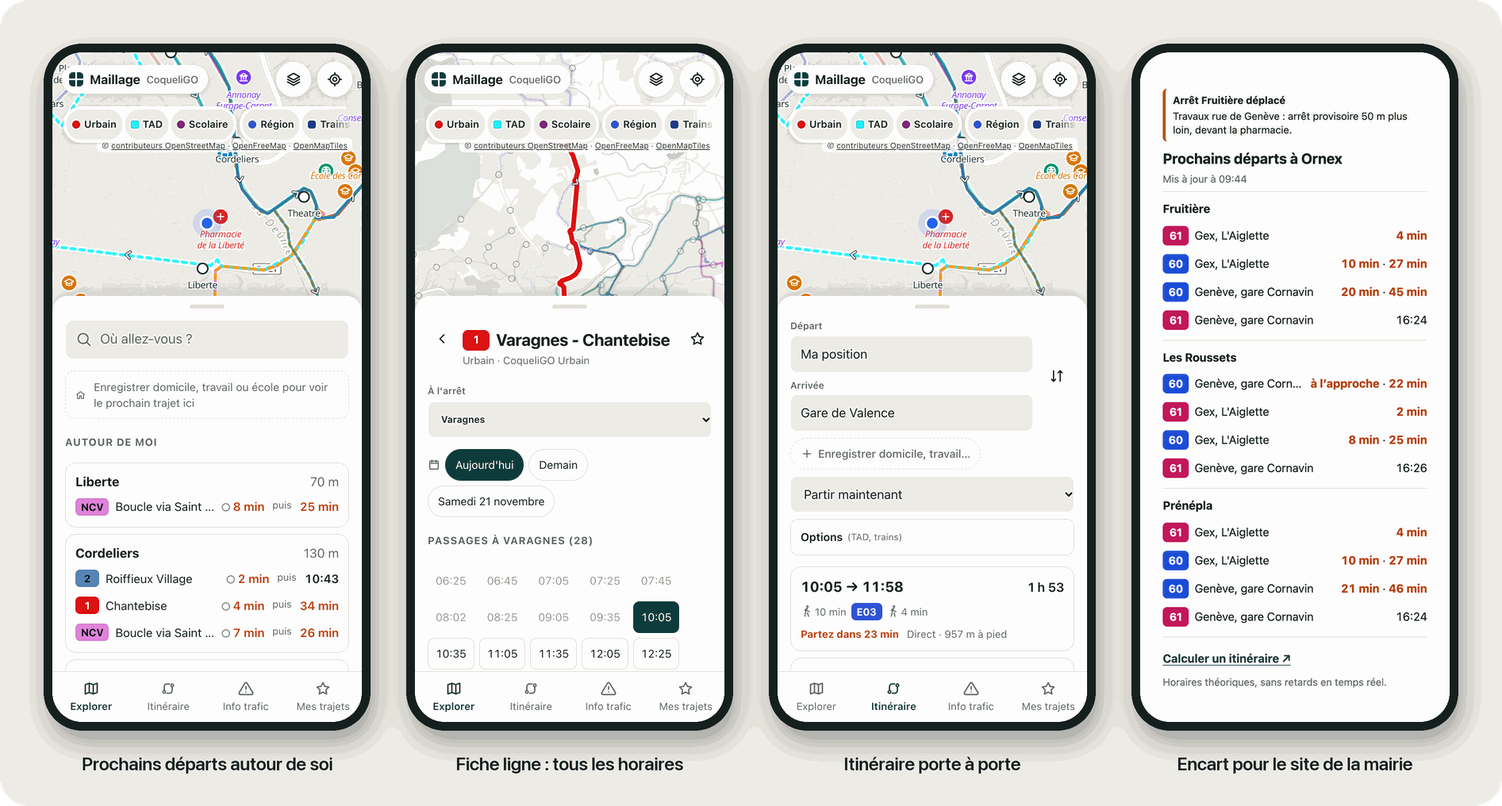
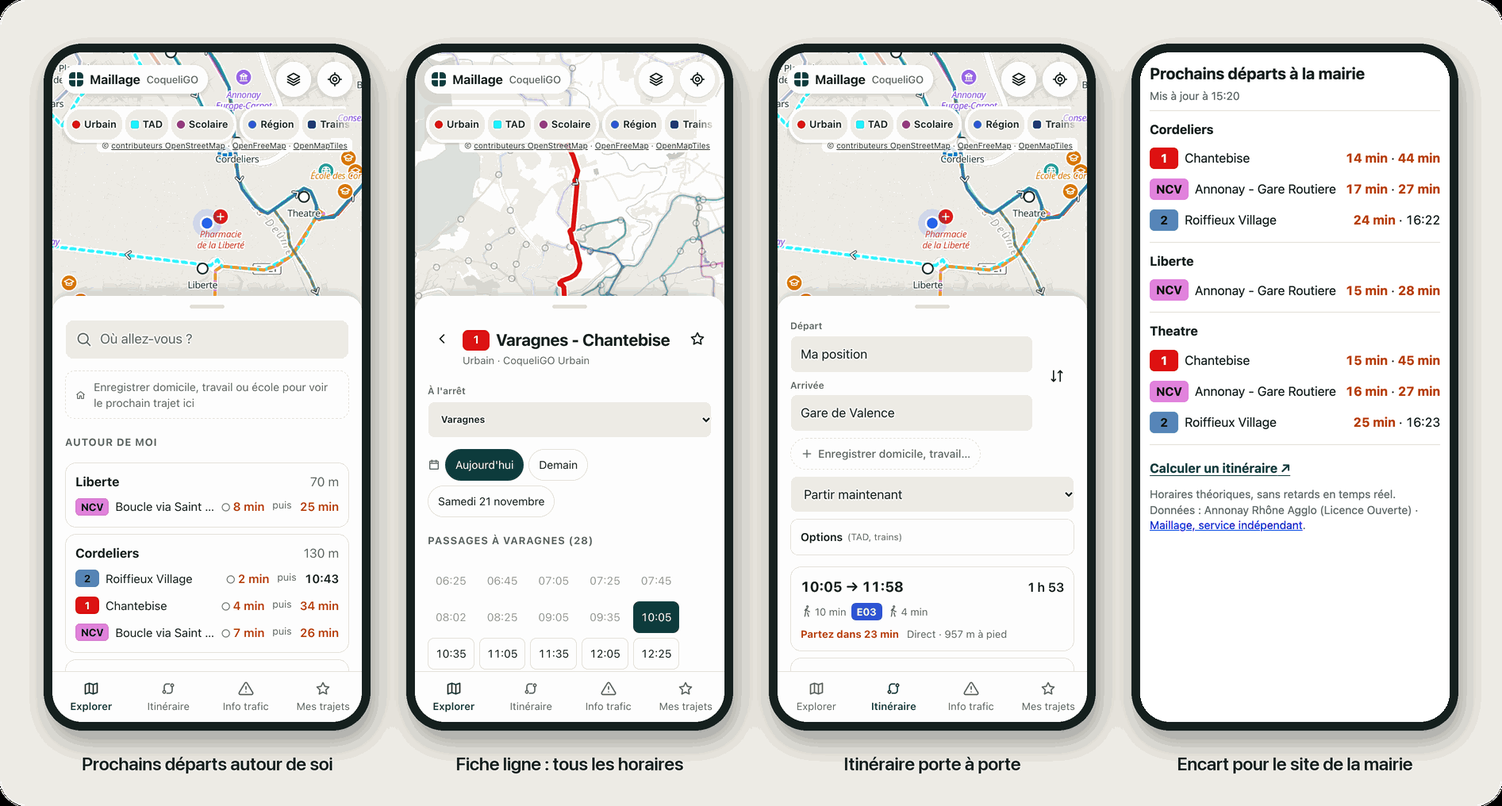
Dépôt public neutre : plus de commune citée dans les textes et la capture
- README, EXPLOITATION, deploy/README : territoires génériques, modèle d'encart encart-exemple.html
- capture du README : encart « Prochains départs à la mairie » à la place d'Ornex
- encart-ornex.html et trajets-ornex.ts passent dans la partie privée (docs/, outils/)
- crédit de l'encart tiré du territoire (affichait Pays de Gex Agglo partout)

diff --git a/src/widget.ts b/src/widget.ts
@@ -3,7 +3,7 @@ import { BRAND } from './brand'
 // Page autonome et légère : ni carte ni calcul d'itinéraire, seulement les passages aux arrêts
 // de la commune (data/<territoire>/widget-<commune>.json, produit par pipeline/build_widget.py).
 //
-// Paramètres d'adresse : ?reseau=paysdegex&commune=ornex
+// Paramètres d'adresse : ?reseau=<territoire>&commune=<commune>
 //   &format=complet (défaut) | compact (bandeau d'accueil) | venir (« Comment venir » à un lieu, avec &lieu=<nom>)
 //   &couleur=<hexadécimal sans #> (couleur de la commune) · &id=<identifiant de l'iframe> (plusieurs encarts par page)
 //   &lien=<adresse https du calculateur>
@@ -12,7 +12,7 @@ import './widget.css'
 interface WRoute { short: string; long: string; color: string; text: string; kind: string }
 interface WStop { name: string; lat: number; lon: number; deps: [number, number, number, string][] }
 interface WData {
-  name: string; generated_at: string; window_start: string; window_days: number; valid_until?: string | null; operator_url?: string | null
+  name: string; generated_at: string; window_start: string; window_days: number; valid_until?: string | null; operator_url?: string | null; territory?: string | null
   routes: WRoute[]; services: string[]; stops: WStop[]
   /** lieux de la commune (OpenStreetMap) : [nom, catégorie, type, lat, lon] */
   lieux?: [string, string, string, number, number][]
@@ -102,7 +102,9 @@ function rowsHtml(data: WData, groups: ReturnType<typeof groupsOf>, max = 99) {
       </li>`).join('')
 }
 
-const credit = `<p class="w-muted w-credit">Horaires théoriques, sans retards en temps réel. Données : Pays de Gex Agglo (Licence Ouverte) · <a href="./a-propos.html" target="_blank" rel="noopener">${BRAND.name}, service indépendant</a>.</p>`
+// source des horaires : la collectivité du territoire (encarts construits avant son ajout : mention générique)
+const source = (data: WData) => (data.territory ? `${esc(data.territory)} (Licence Ouverte)` : 'données ouvertes (Licence Ouverte)')
+const credit = (data: WData) => `<p class="w-muted w-credit">Horaires théoriques, sans retards en temps réel. Données : ${source(data)} · <a href="./a-propos.html" target="_blank" rel="noopener">${BRAND.name}, service indépendant</a>.</p>`
 const linkHtml = (href: string, label: string, cls = 'w-link') =>
   `<a class="${cls}" href="${esc(href)}" target="_blank" rel="noopener">${label}<span class="sr"> (nouvel onglet)</span> ↗</a>`
 
@@ -145,7 +147,7 @@ function renderVenir(data: WData, now: { date: string; sec: number }) {
     ${blocks}
     <footer class="w-foot">
       ${linkHtml(vers, 'Itinéraire jusqu’ici', 'w-btn')}
-      ${credit}
+      ${credit(data)}
     </footer>`
 }
 
@@ -196,7 +198,7 @@ function render(data: WData) {
     ${stops}
     <footer class="w-foot">
       <a class="w-link" href="${esc(lien)}" target="_blank" rel="noopener">Calculer un itinéraire<span class="sr"> (nouvel onglet)</span> ↗</a>
-      <p class="w-muted">Horaires théoriques, sans retards en temps réel. Données : Pays de Gex Agglo (Licence Ouverte) · <a href="./a-propos.html" target="_blank" rel="noopener">${BRAND.name}, service indépendant</a>.</p>
+      <p class="w-muted">Horaires théoriques, sans retards en temps réel. Données : ${source(data)} · <a href="./a-propos.html" target="_blank" rel="noopener">${BRAND.name}, service indépendant</a>.</p>
     </footer>`
   root.removeAttribute('aria-busy')
 }

diff --git a/deploy/encart-exemple.html b/deploy/encart-exemple.html
@@ -1,0 +1,43 @@
+<!-- Encarts Maillage pour le site d'une commune : à coller dans un bloc « HTML personnalisé » (WordPress ou autre).
+     Remplacer TERRITOIRE (identifiant du territoire, fichier pipeline/tenants/<territoire>.json), COMMUNE
+     (identifiant de la commune dans pipeline/encarts.json), NOM (nom affiché) et LIEU (format venir).
+     Trois formats, à placer chacun sur la page qui convient ; chaque iframe s'ajuste toute seule à son contenu.
+     Le script en bas de ce fichier est à coller UNE fois par page (il sert à tous les encarts de la page).
+     Paramètres : format (complet | compact | venir), lieu (format venir), couleur (hexadécimal sans #),
+     id (identifiant unique de l'encart sur la page, repris dans data-maillage).
+     L'espace mairie (onglet Encart) génère ce code déjà rempli. -->
+
+<!-- 1. Encart complet : page « Transports publics » -->
+<iframe
+  src="https://maillage.tuatam.fr/widget.html?reseau=TERRITOIRE&amp;commune=COMMUNE&amp;id=COMMUNE"
+  title="Prochains départs des bus aux arrêts de NOM"
+  loading="lazy"
+  style="width:100%;max-width:720px;height:560px;border:1px solid #e2ded6;display:block"
+  data-maillage="COMMUNE"></iframe>
+
+<!-- 2. Bandeau compact : page d'accueil ou colonne latérale -->
+<iframe
+  src="https://maillage.tuatam.fr/widget.html?reseau=TERRITOIRE&amp;commune=COMMUNE&amp;format=compact&amp;id=COMMUNE-compact"
+  title="Prochains bus à NOM"
+  loading="lazy"
+  style="width:100%;max-width:720px;height:150px;border:1px solid #e2ded6;display:block"
+  data-maillage="COMMUNE-compact"></iframe>
+
+<!-- 3. « Comment venir » : page d'un équipement (ici la mairie). LIEU = nom du lieu tel qu'il apparaît
+     dans les données OpenStreetMap de la commune (liste « lieux » de data/<territoire>/widget-<commune>.json),
+     encodé pour une adresse (espace = %20) ; une partie du nom suffit. -->
+<iframe
+  src="https://maillage.tuatam.fr/widget.html?reseau=TERRITOIRE&amp;commune=COMMUNE&amp;format=venir&amp;lieu=LIEU&amp;id=COMMUNE-mairie"
+  title="Venir en bus à la mairie de NOM"
+  loading="lazy"
+  style="width:100%;max-width:520px;height:420px;border:1px solid #e2ded6;display:block"
+  data-maillage="COMMUNE-mairie"></iframe>
+
+<!-- Script commun (une fois par page) : ajuste la hauteur de chaque encart à son contenu. -->
+<script>
+  window.addEventListener('message', function (e) {
+    if (e.origin !== 'https://maillage.tuatam.fr' || !e.data || e.data.type !== 'maillage-widget-height') return;
+    var f = document.querySelector('iframe[data-maillage="' + String(e.data.commune).replace(/[^a-z0-9-]/gi, '') + '"]');
+    if (f && e.data.height > 40 && e.data.height < 3000) f.style.height = e.data.height + 'px';
+  });
+</script>

diff --git a/demo-encarts.html b/demo-encarts.html
@@ -38,20 +38,20 @@
     <button role="tab" aria-selected="false" data-page="mairie">La mairie · « Comment venir »</button>
   </nav>
   <main>
-    <p class="note">Démonstration : les horaires sont réels (données ouvertes du Pays de Gex), le décor de la page est fictif.
+    <p class="note">Démonstration : les horaires sont réels (données ouvertes d'un territoire de démonstration), le décor de la page est fictif.
       Chaque encart s'ajuste tout seul à la hauteur de son contenu et se colle dans un bloc « HTML personnalisé ».</p>
 
     <section data-page="accueil">
       <div class="cols">
         <div>
-          <h1>Bienvenue à Ornex</h1>
+          <h1>Bienvenue sur le site de la commune</h1>
           <div class="placeholder" aria-hidden="true"></div>
           <p>Actualités, agenda, démarches… Le bandeau des prochains bus est vu par tous les visiteurs de l'accueil.</p>
           <div class="placeholder" aria-hidden="true"></div>
         </div>
         <aside>
           <p class="label">Colonne latérale</p>
-          <iframe data-maillage="demo-compact" title="Prochains bus à Ornex" style="height:170px"
+          <iframe data-maillage="demo-compact" title="Prochains bus de la commune" style="height:170px"
             data-src="./widget.html?reseau=paysdegex&commune=ornex&format=compact&id=demo-compact"></iframe>
         </aside>
       </div>
@@ -59,8 +59,8 @@
 
     <section data-page="transports" hidden>
       <h1>Transports publics</h1>
-      <p>Lignes 60 et 61 (TPG, pour Pays de Gex Agglo). Prochains départs en direct aux trois arrêts de la commune :</p>
-      <iframe data-maillage="demo-complet" title="Prochains départs des bus aux arrêts d'Ornex" style="height:560px;max-width:720px"
+      <p>Prochains départs en direct aux arrêts de la commune :</p>
+      <iframe data-maillage="demo-complet" title="Prochains départs des bus aux arrêts de la commune" style="height:560px;max-width:720px"
         data-src="./widget.html?reseau=paysdegex&commune=ornex&id=demo-complet"></iframe>
     </section>
 
@@ -79,7 +79,7 @@
         </div>
         <aside>
           <p class="label">Comment venir</p>
-          <iframe data-maillage="demo-venir" title="Venir en bus à la mairie d'Ornex" style="height:420px"
+          <iframe data-maillage="demo-venir" title="Venir en bus à la mairie" style="height:420px"
             data-src="./widget.html?reseau=paysdegex&commune=ornex&format=venir&lieu=Mairie%20d'Ornex&id=demo-venir"></iframe>
         </aside>
       </div>

diff --git a/src/views/trip.tsx b/src/views/trip.tsx
@@ -126,7 +126,7 @@ export function PlaceInput({ net, label, value, placeholder, onPick, near, autoF
   )
 }
 
-/** « Mairie d'Ornex » reste tel quel ; « École des Bois » devient « École des Bois, Ornex ». */
+/** « Mairie de Bourg » reste tel quel ; « École des Tilleuls » devient « École des Tilleuls, Bourg ». */
 const poiLabel = (s: Suggestion) => {
   const commune = s.detail.split(' · ').pop() ?? ''
   return commune && !s.label.toLowerCase().includes(commune.toLowerCase()) ? `${s.label}, ${commune}` : s.label

diff --git a/pipeline/build_widget.py b/pipeline/build_widget.py
@@ -7,8 +7,8 @@ Le fichier produit (quelques dizaines de Ko au lieu de ~1 Mo) suffit à afficher
 de tous les jours de la fenêtre du réseau (60 jours) : chaque passage renvoie à un calendrier.
 
 Usage :
-    python3 -I pipeline/build_widget.py public/data/paysdegex --slug ornex --name Ornex \
-        --places "Ornex, Fruitière" "Ornex, Les Roussets" "Ornex, Prénépla"
+    python3 -I pipeline/build_widget.py public/data/<territoire> --slug <commune> --name "<Nom>" \
+        --places "<pôle d'arrêt 1>" "<pôle d'arrêt 2>"
 """
 import argparse, json, os, sys
 
@@ -65,6 +65,7 @@ def main():
         "generated_at": net["generated_at"],
         "tenant": net["tenant"]["tenant"],
         "name": args.name,
+        "territory": net["tenant"].get("territory"),
         "window_start": net["window_start"],
         "window_days": net["window_days"],
         # fin de validité des flux utilisés par l'encart : au-delà, l'encart annonce une mise à jour

diff --git a/pipeline/build_pois.py b/pipeline/build_pois.py
@@ -227,8 +227,8 @@ def main():
             extra["a"] = tags["wheelchair"]
         out.append([name, cat, label, commune, round(la, 6), round(lo, 6), extra])
 
-    # commune : limites administratives OSM (l'arrêt le plus proche porte parfois le nom d'un hameau :
-    # Maconnex pour Ornex) ; à défaut, nom de l'arrêt le plus proche
+    # commune : limites administratives OSM (l'arrêt le plus proche porte parfois le nom d'un hameau
+    # plutôt que celui de la commune) ; à défaut, nom de l'arrêt le plus proche
     try:
         communes = osm_communes([(p[4], p[5]) for p in out], bbox, args.cache, tenant)
         for p, c in zip(out, communes):

diff --git a/README.md b/README.md
@@ -15,7 +15,7 @@
 
 [Fonctions](#fonctions) · [Démarrer](#démarrer) · [Comment ça marche](#comment-ça-marche) · [Contribuer](#contribuer) · [Licence](#licence)
 
-<img src=".github/images/apercu.png" alt="Quatre écrans de Maillage sur téléphone : prochains départs autour de soi sur la carte d'Annonay, fiche de la ligne 1 avec ses horaires, recherche d'itinéraire vers la gare de Valence, encart des prochains départs pour le site de la mairie d'Ornex" width="100%">
+<img src=".github/images/apercu.png" alt="Quatre écrans de Maillage sur téléphone : prochains départs autour de soi sur la carte, fiche d'une ligne avec ses horaires, recherche d'itinéraire porte à porte, encart des prochains départs pour le site d'une mairie" width="100%">
 
 </div>
 
@@ -32,8 +32,7 @@ enchaînent bus, cars et trains, formats ouverts et standards (GTFS, GTFS-RT, et
 un nouveau service sans développement.
 
 Il s'adresse :
-- **aux communes en bordure d'un grand réseau**, comme le Pays de Gex autour de Genève, les communes hors du réseau TCL
-  autour de Lyon ou la grande couronne parisienne ;
+- **aux communes en bordure d'un grand réseau**, par exemple autour de Genève, de Lyon ou de Paris ;
 - **aux petits réseaux** qui n'ont pas encore d'application complète, dont les voyageurs n'ont souvent que des fiches PDF.
 
 - 📱 **Rien à installer** : une page web pensée pour le téléphone, sans compte, sans cookie, sans traceur.
@@ -42,11 +41,12 @@ Il s'adresse :
 - 🏛 **Au service des communes** : un encart à coller sur le site de la mairie et un espace pour publier des messages.
 - 🔓 **Ouvert** : code libre, données ouvertes, standards (GTFS, OpenStreetMap).
 
-**Territoires actuels** : CoqueliGO (Annonay, Ardèche) et Pays de Gex (Ornex, Ain).
+Le dépôt contient les données de deux territoires de démonstration, construites à partir de leurs données ouvertes
+(sources dans [LICENCE-DONNEES.md](LICENCE-DONNEES.md)).
 Service en ligne : [maillage.tuatam.fr](https://maillage.tuatam.fr) (sur invitation pendant la phase pilote ; les encarts et l'espace mairie sont publics).
 
 > [!NOTE]
-> Projet indépendant, non affilié aux réseaux présentés (CoqueliGO, Annonay Rhône Agglo, Pays de Gex Agglo, TPG).
+> Projet indépendant, non affilié aux réseaux de transport dont il reprend les données.
 > Les horaires sont **théoriques**, tels que publiés par les réseaux.
 
 ## Fonctions
@@ -80,7 +80,7 @@ npm install
 npm run dev
 ```
 
-Puis ouvrir http://localhost:5199 (de préférence en vue mobile) : la page d'accueil propose les territoires. Accès direct : `?reseau=coqueligo` ou `?reseau=paysdegex`.
+Puis ouvrir http://localhost:5199 (de préférence en vue mobile) : la page d'accueil propose les territoires. Accès direct : `?reseau=<territoire>`, l'identifiant d'un fichier de `pipeline/tenants/`.
 
 Le dépôt contient une copie des données pour démarrer tout de suite. Pour les régénérer à partir des sources :
 
@@ -94,9 +94,9 @@ Les moteurs OSRM (Docker) recalent les tracés sur la chaussée et les voies fer
 <details>
 <summary>Téléchargements, trains suisses, éditeur de tracés et autres commandes</summary>
 
-`npm run data` télécharge (avec repli automatique sur `curl` si le Python de python.org n'a pas ses certificats racine) les GTFS déclarés dans `pipeline/tenants/coqueligo.json` puis `pipeline/tenants/paysdegex.json` (un seul territoire : `npm run data:coqueligo` ou `npm run data:paysdegex`), dont l'agrégat régional Oùra (~110 Mo). Comptez quelques minutes la première fois. Les données générées couvrent **60 jours** à partir du jour d'exécution : il faut relancer la commande ensuite.
+`npm run data` télécharge (avec repli automatique sur `curl` si le Python de python.org n'a pas ses certificats racine) les GTFS déclarés dans chaque `pipeline/tenants/<territoire>.json` (un seul territoire : `npm run data:<territoire>`), dont l'agrégat régional Oùra (~110 Mo). Comptez quelques minutes la première fois. Les données générées couvrent **60 jours** à partir du jour d'exécution : il faut relancer la commande ensuite.
 
-**Trains suisses (Pays de Gex).** Le flux `train-ch` part de l'horaire national suisse (opentransportdata.swiss, ~400 Mo pour deux années d'horaires, dont 3,7 Go de `stop_times` décompressés). `pipeline/extract_gtfs.py` n'en garde, en une minute, que les trains qui passent à moins de 13 km de Genève (≈ 4 Mo). Le Léman Express, les TER et les trains SNCF sont écartés : ils figurent déjà dans le flux SNCF. Les sources sont retéléchargées au plus tous les 3 jours. Chaque année, avant le changement de service de décembre, il faut ajouter l'horaire de l'année suivante (`timetable-AAAA-gtfs2020`) dans `pipeline/tenants/paysdegex.json` ; l'alerte d'expiration (`npm run check:data`) le rappelle 21 jours avant. Les lignes suisses sont tracées de gare en gare (le moteur ferroviaire OSRM ne couvre que Rhône-Alpes).
+**Trains suisses (territoires frontaliers de Genève).** Le flux `train-ch` part de l'horaire national suisse (opentransportdata.swiss, ~400 Mo pour deux années d'horaires, dont 3,7 Go de `stop_times` décompressés). `pipeline/extract_gtfs.py` n'en garde, en une minute, que les trains qui passent à moins de 13 km de Genève (≈ 4 Mo). Le Léman Express, les TER et les trains SNCF sont écartés : ils figurent déjà dans le flux SNCF. Les sources sont retéléchargées au plus tous les 3 jours. Chaque année, avant le changement de service de décembre, il faut ajouter l'horaire de l'année suivante (`timetable-AAAA-gtfs2020`) dans le fichier du territoire (`pipeline/tenants/<territoire>.json`) ; l'alerte d'expiration (`npm run check:data`) le rappelle 21 jours avant. Les lignes suisses sont tracées de gare en gare (le moteur ferroviaire OSRM ne couvre que Rhône-Alpes).
 
 Éditeur de tracés (poste local, avec `npm run dev`) : http://localhost:5199/editeur.html, voir [EXPLOITATION.md](EXPLOITATION.md).
 
@@ -126,12 +126,12 @@ Pas de serveur applicatif pour les voyageurs : tout tourne dans le navigateur, c
 <details>
 <summary>Ce que fait le pipeline de données</summary>
 
-- télécharge 4 flux : urbain, scolaire, TAD et cars Région filtrés sur 6 km autour d'Annonay ;
+- télécharge 4 flux : urbain, scolaire, TAD et cars Région filtrés sur 6 km autour du réseau urbain ;
 - **corrige automatiquement** : 34 temps de parcours négatifs (scolaire), séquences dupliquées, couleurs de texte illisibles (contraste WCAG) ;
 - **réconcilie les arrêts entre flux** : 936 arrêts → 527 pôles, dont 135 rapprochements inter-flux (la gare routière regroupe urbain, TAD, scolaire et Région) ;
 - calcule les correspondances à pied (< 400 m) ;
 - **trace les TER sur les voies ferrées** avec un second moteur OSRM local au **profil « rail »** (`pipeline/osrm/rail.lua`, `osrm.sh prepare-rail` / `start-rail`, port 5056), gare par gare ; les tronçons hors de l'extrait Rhône-Alpes restent droits ;
-- **apparie sur la chaussée tous les tracés CoqueliGO** (et, depuis, les cars Région), comble les trous d'appariement par un itinéraire routier et répare les segments droits restants (urbain, scolaire, TAD) avec un **moteur OSRM local au profil « bus »** (voies réservées aux bus autorisées) : chaque tracé est rééchantillonné tous les 35 m puis apparié par blocs ; un bloc n'est remplacé que si ≥ 90 % des points sont appariés et que la longueur reste entre 0,8 et 1,25 × l'original. Bilan au 13/11 : 193 tracés, 5 blocs gardés tels quels, écart corrigé médian 1-3 m (p95 ≈ 25 m pour 5S et 6S, les plus décalées). Moteur : `pipeline/osrm/osrm.sh prepare` puis `start` (Docker, http://localhost:5055) ; sans moteur lancé, l'étape est ignorée ;
+- **apparie sur la chaussée tous les tracés urbains, scolaires et TAD** (et, depuis, les cars Région), comble les trous d'appariement par un itinéraire routier et répare les segments droits restants (urbain, scolaire, TAD) avec un **moteur OSRM local au profil « bus »** (voies réservées aux bus autorisées) : chaque tracé est rééchantillonné tous les 35 m puis apparié par blocs ; un bloc n'est remplacé que si ≥ 90 % des points sont appariés et que la longueur reste entre 0,8 et 1,25 × l'original. Bilan au 13/11 : 193 tracés, 5 blocs gardés tels quels, écart corrigé médian 1-3 m (p95 ≈ 25 m pour 5S et 6S, les plus décalées). Moteur : `pipeline/osrm/osrm.sh prepare` puis `start` (Docker, http://localhost:5055) ; sans moteur lancé, l'étape est ignorée ;
 - **recale sur la voirie les tracés droits** (critères : plus de 30 % de la longueur en segments droits de plus de 600 m, ou moins de 4 points/km, ce qui attrape aussi les 5S et 6S) : le TAD (100 %), les lignes scolaires B, C, E, G et H (70 à 90 %) et une partie des cars Région (E95, E96, 07-AN5) ne publient que des lignes droites d'arrêt à arrêt. Chaque suite de segments droits est remplacée par l'itinéraire routier OSRM passant par les mêmes arrêts. Si la route fait plus de 2,2 fois la ligne droite, la ligne droite est conservée. Résultats en cache (`.cache/osrm-cache.json`) ; à désactiver avec `--no-snap` ;
 - **signale l'expiration** des flux (urbain et TAD s'arrêtent fin 2026).
 
@@ -171,12 +171,12 @@ Pas de serveur applicatif pour les voyageurs : tout tourne dans le navigateur, c
 
 - **Lignes TER affichées par leur parcours** (« TER · Mâcon – Lyon Perrache – Valence ») : les codes du GTFS SNCF (K4, K64, P4…) ne sont pas les numéros affichés aux voyageurs (TER Auvergne-Rhône-Alpes numérote ses lignes 01 à 76) et un même code sert dans plusieurs régions. Vérifié le 13/11/2026 sur ter.sncf.com.
 - **Marche par les rues** : chaque étape à pied est recalculée après coup par le service OSRM piéton public de FOSSGIS (coordonnées envoyées à ce tiers ; en production, un moteur hébergé). Le calcul lui-même choisit les correspondances sur une estimation à vol d'oiseau × 1,25 : une correspondance devenue trop juste par les rues est signalée, pas recalculée.
-- Côté SNCF, seuls les **TER** sont intégrés au calcul d'itinéraire : les TGV, OUIGO et Intercités apparaissent dans les tableaux des gares, mais pas dans les itinéraires (billets et réservation différents). Au Pays de Gex s'y ajoutent les **trains suisses** (CFF), sans temps réel et absents des tableaux de gare.
+- Côté SNCF, seuls les **TER** sont intégrés au calcul d'itinéraire : les TGV, OUIGO et Intercités apparaissent dans les tableaux des gares, mais pas dans les itinéraires (billets et réservation différents). Près de Genève s'y ajoutent les **trains suisses** (CFF), sans temps réel et absents des tableaux de gare.
 - **Tracés hors extrait OSM** : trains suisses et portions suisses des TER tracés de gare en gare ; à l'aéroport de Genève, la boucle de demi-tour de la ligne 66 est déduite du calcul d'itinéraire (les TPG ne publient aucun tracé).
 - **Temps réel des trains** (GTFS-RT SNCF via transport.data.gouv.fr) : retards, suppressions et arrêts supprimés dans les tableaux de gare et les correspondances, rafraîchis chaque minute tant qu'ils sont affichés. Le flux national pèse ~900 Ko : en production, un serveur le filtrerait sur les gares du réseau. Pas encore appliqué aux trajets TER dans le détail d'un itinéraire.
 - Le fichier `network.json` passe à ~770 Ko avec les trains, dont 2 154 passages pour Lyon Part-Dieu seule. On pourrait le réduire en limitant Lyon aux TER.
 - Les tracés recalés sur la voirie sont **probables, pas certains** : le trajet réel d'un car scolaire ou d'un TAD peut différer. À faire valider par le réseau, idéalement en lui proposant de publier ces tracés dans ses GTFS.
-- Bus et cars : horaires théoriques uniquement (le temps réel CoqueliGO n'est pas publié en open data).
+- Bus et cars : horaires théoriques uniquement (le temps réel des réseaux de bus n'est pas publié en open data).
 - L'expiration affichée pour l'urbain (2 janvier 2027) correspond au service du samedi : en semaine, les données publiées s'arrêtent dès le **18 décembre 2026**.
 - Les lignes scolaires sont désactivées par défaut dans le calcul : leur ouverture au public reste à confirmer.
 - Le TAD est modélisé comme des courses à horaires fixes. Le démonstrateur interdit d'enchaîner deux TAD.

diff --git a/EXPLOITATION.md b/EXPLOITATION.md
@@ -143,7 +143,7 @@ Les corrections sont écrites dans `pipeline/tenants/<territoire>-corrections.js
 
 ## 6. Encart « prochains départs » pour un site de commune
 
-Exemple : Ornex. Code à coller dans le site de la commune : [deploy/encart-ornex.html](deploy/encart-ornex.html) (les trois formats et le script commun, à coller une fois par page). Démonstration des trois emplacements : https://maillage.tuatam.fr/demo-encarts.html (accès privé).
+Code à coller dans le site de la commune : modèle [deploy/encart-exemple.html](deploy/encart-exemple.html) (les trois formats et le script commun, à coller une fois par page), ou code déjà rempli dans l'onglet Encart de l'espace mairie. Démonstration des trois emplacements : `demo-encarts.html`.
 
 | Format (`format=`) | Où le placer | Contenu |
 |---|---|---|
@@ -155,8 +155,8 @@ Autres paramètres : `lien=<adresse https encodée>` (remplace la destination du
 
 Pour une nouvelle commune :
 1. Ajouter la commune dans `pipeline/encarts.json` : `territoire`, `slug`, `nom` et les pôles d'arrêt exacts (`poles`). Le contrôle avant publication refuse de publier si un encart déclaré n'a pas été construit.
-2. Autoriser le site de la commune dans `deploy/nginx.conf` (directive `frame-ancestors` de `location = /widget.html`). `ornex.local` (copie locale du site de la ville, sous Local) y figure pour les démonstrations.
-3. Copier `deploy/encart-ornex.html` en changeant `commune=` et `data-maillage=`.
+2. Autoriser le site de la commune dans `deploy/nginx.conf` (directive `frame-ancestors` de `location = /widget.html`). Une adresse locale (copie du site de la commune sur le poste) peut y figurer pour les démonstrations.
+3. Remplir `deploy/encart-exemple.html` (`TERRITOIRE`, `COMMUNE`, `NOM`, `LIEU`), ou copier le code de l'onglet Encart de l'espace mairie.
 4. `./deploy/deploy-vps.sh --config` : le pipeline ayant changé, le VPS met les données à jour et construit l'encart (`--config` est nécessaire quand `nginx.conf` change).
 
 L'encart est, avec la page `a-propos.html` (mentions légales, confidentialité, accessibilité, contact), la seule partie publique du site, avec ses fichiers et ses données. Tout le reste demande un compte (voir [deploy/README.md](deploy/README.md)).
@@ -194,7 +194,7 @@ Affichages de l'encart par commune et par site d'origine, clics « Calculer un i
   3. reprendre les textes rédigés : README, `CONTRIBUTING.md`, `LICENCE-DONNEES.md`, la charte graphique ;
   4. publier.
 
-  Le domaine (lot E) se change à part : `ORIGIN` dans `deploy/compose.yml`, `deploy/compose.domain.yml`, `deploy/encart-ornex.html`.
+  Le domaine (lot E) se change à part : `ORIGIN` dans `deploy/compose.yml`, `deploy/compose.domain.yml`, `deploy/encart-exemple.html`.
 - **Ne jamais renommer** :
   - les clés `maillage:` des favoris enregistrés sur les téléphones ;
   - l'attribut `data-maillage` et le message `maillage-widget-height` des encarts déjà collés sur les sites des communes ;

diff --git a/deploy/README.md b/deploy/README.md
@@ -60,7 +60,7 @@ Seuls `/widget.html`, ses fichiers `assets/widget-*` et `assets/modulepreload-po
 `data/<territoire>/widget-<commune>.json` sont servis sans mot de passe (voir `nginx.conf`). Tout le reste
 demande toujours un compte. Pour qu'une autre commune puisse intégrer l'encart, ajouter son domaine à la
 directive `frame-ancestors` de `nginx.conf` puis lancer `./deploy/deploy-vps.sh --config`.
-Code à coller dans le site de la commune : `encart-ornex.html` (exemple pour Ornex).
+Code à coller dans le site de la commune : modèle `encart-exemple.html`, ou l'onglet Encart de l'espace mairie.
 
 ## Mesure d'usage (sans IP ni cookie)
 
